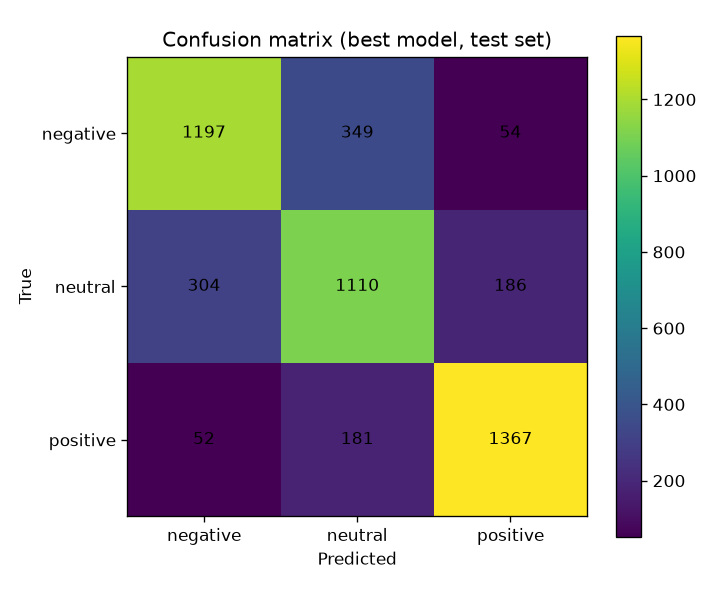
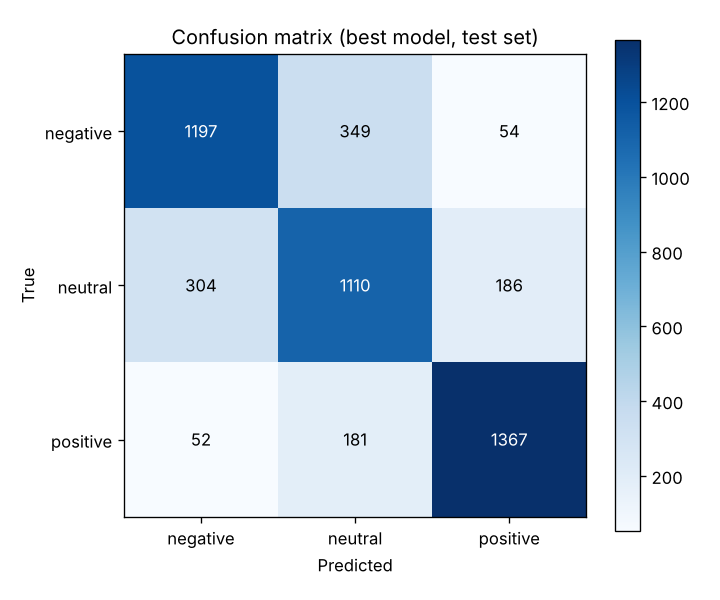
Improve confusion matrix plot and README

diff --git a/src/train.py b/src/train.py
@@ -105,7 +105,7 @@ def evaluate(model, X_test, y_test) -> dict:
 
 def plot_confusion_matrix(cm, path=CM_PATH) -> None:
     fig, ax = plt.subplots(figsize=(6, 5))
-    im = ax.imshow(cm)
+    im = ax.imshow(cm, cmap="Blues")
     ax.set_xticks(range(len(CLASSES)))
     ax.set_yticks(range(len(CLASSES)))
     ax.set_xticklabels(CLASSES)
@@ -115,7 +115,10 @@ def plot_confusion_matrix(cm, path=CM_PATH) -> None:
     ax.set_title("Confusion matrix (best model, test set)")
     for i in range(len(CLASSES)):
         for j in range(len(CLASSES)):
-            ax.text(j, i, cm[i][j], ha="center", va="center")
+            ax.text(
+                j, i, cm[i][j], ha="center", va="center",
+                color="white" if cm[i][j] > max(max(r) for r in cm) / 2 else "black",
+            )
     fig.colorbar(im, ax=ax)
     fig.tight_layout()
     path.parent.mkdir(parents=True, exist_ok=True)

diff --git a/README.md b/README.md
@@ -84,6 +84,26 @@ Run the tests:
 pytest tests/ -q
 ```
 
+### Example API call
+
+```bash
+curl -X POST http://127.0.0.1:8000/predict \
+  -H "Content-Type: application/json" \
+  -d '{"text": "This cream is amazing, my skin loves it!"}'
+# {"label":"positive","confidence":0.9177,"probabilities":{"negative":0.0213,"neutral":0.061,"positive":0.9177}}
+```
+
+## Results (test set, n = 4,800)
+
+| Model               | Accuracy | Precision (macro) | Recall (macro) | F1 (macro) |
+| ------------------- | -------- | ----------------- | -------------- | ---------- |
+| Naive Bayes         | 0.7538   | 0.7573            | 0.7538         | 0.7547     |
+| Logistic Regression | **0.7654** | **0.7661**      | **0.7654**     | **0.7657** |
+
+![Confusion matrix](models/confusion_matrix.png)
+
+Full per-class scores and analysis are in `REPORT.md`.
+
 ## Features
 
 - Real public dataset (Amazon Reviews 2023), class-balanced, reproducible
@@ -97,4 +117,6 @@ pytest tests/ -q
 - Bag-of-words TF-IDF: word order and sarcasm are mostly lost; 3-star
   "neutral" reviews are the hardest class (F1 ≈ 0.69).
 - Trained on Beauty-category reviews; slang or other domains may perform worse.
-- The default model is extractive-style classification, not generative.
+- Model selection uses the same held-out test split that is reported, so the
+  headline numbers are slightly optimistic; a separate validation split is the
+  next improvement (see `REPORT.md`).
